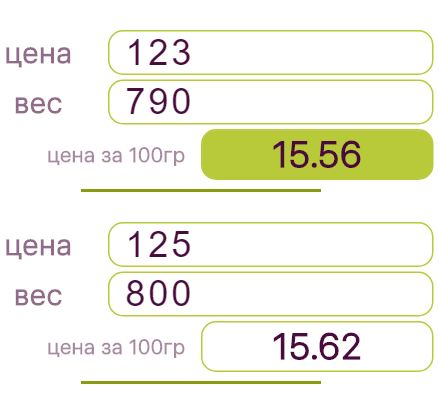
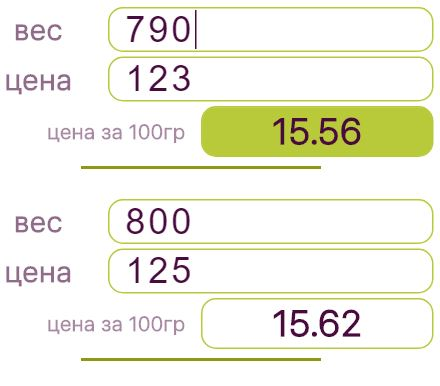
price after weight

diff --git a/src/Components/Content/Product.jsx b/src/Components/Content/Product.jsx
@@ -10,6 +10,18 @@ export default function Product(props) {
   return (
     // <div key={product.id} className={`${style.product} ${product.isLowest ? style.lowest : ''}`} >
     <div key={product.id} className={style.product} >
+
+      <div className={style.row}>
+        <label htmlFor={"weight" + props.index}>вес</label>
+        <input
+          id={"weight" + props.index}
+          type="number"
+          placeholder="800 (гр)"
+          value={product.weight}
+          onChange={event => props.onHandleWeightChange(product.id, event.target.value)}
+        />
+      </div>
+
       <div className={style.row}>
         <label htmlFor={"price" + props.index}>цена</label>
         <input
@@ -21,17 +33,6 @@ export default function Product(props) {
 
         // value={priceValue}
         // onChange={event => setPriceValue(event.target.value)}
-        />
-      </div>
-
-      <div className={style.row}>
-        <label htmlFor={"weight" + props.index}>вес</label>
-        <input
-          id={"weight" + props.index}
-          type="number"
-          placeholder="800 (гр)"
-          value={product.weight}
-          onChange={event => props.onHandleWeightChange(product.id, event.target.value)}
         />
       </div>
 

diff --git a/src/Components/Modal/ModalInfo.jsx b/src/Components/Modal/ModalInfo.jsx
@@ -22,7 +22,7 @@ export default function ModalInfo(props) {
       <div className={style.modal}>
         <div className={style.modal__content}>
           <p>
-            Введите цену и вес товара
+            Введите вес и цену товара
           </p>
           <p>
             Приложение подсветит наиболее <span>выгодную</span> позицию

diff --git a/public/index.html b/public/index.html
@@ -26,7 +26,7 @@
   <title>Сравни цену</title>
 </head>
 
-<body data-theme="kotaku">
+<body data-theme="sugari">
   <noscript>You need to enable JavaScript to run this app.</noscript>
   <div id="root"></div>
   <!--

diff --git a/src/themes/coloredThemes.module.scss b/src/themes/coloredThemes.module.scss
@@ -39,6 +39,7 @@
     --colorInfo: #E97F02;
     --colorInfoLight: #faefe1;
     --backgroundBody: #fffdfc;
+    // --backgroundBody: white;
     --backgroundInput: white;
 
     --colorPrimaryActive: #758217;
